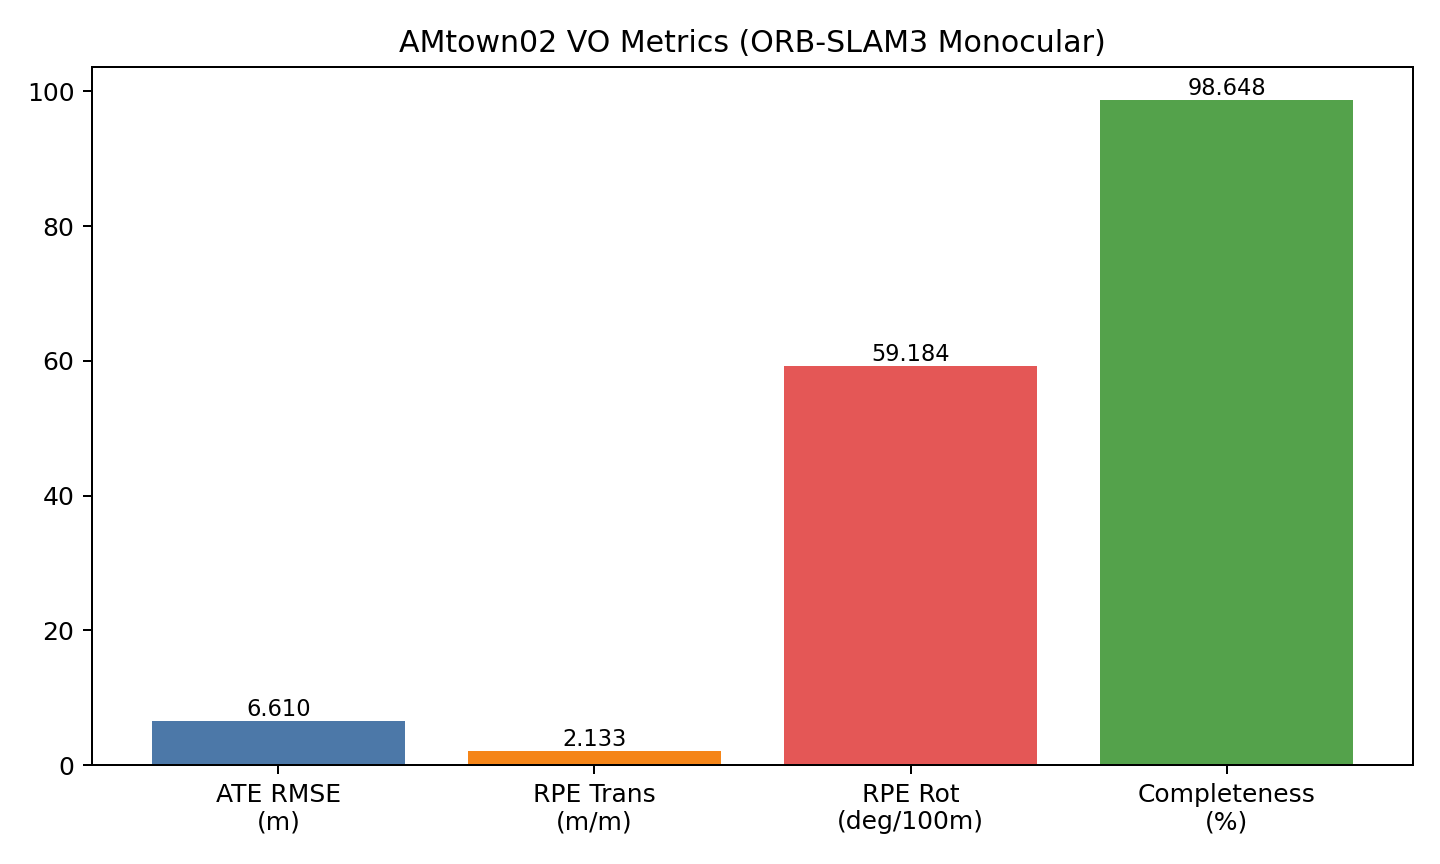
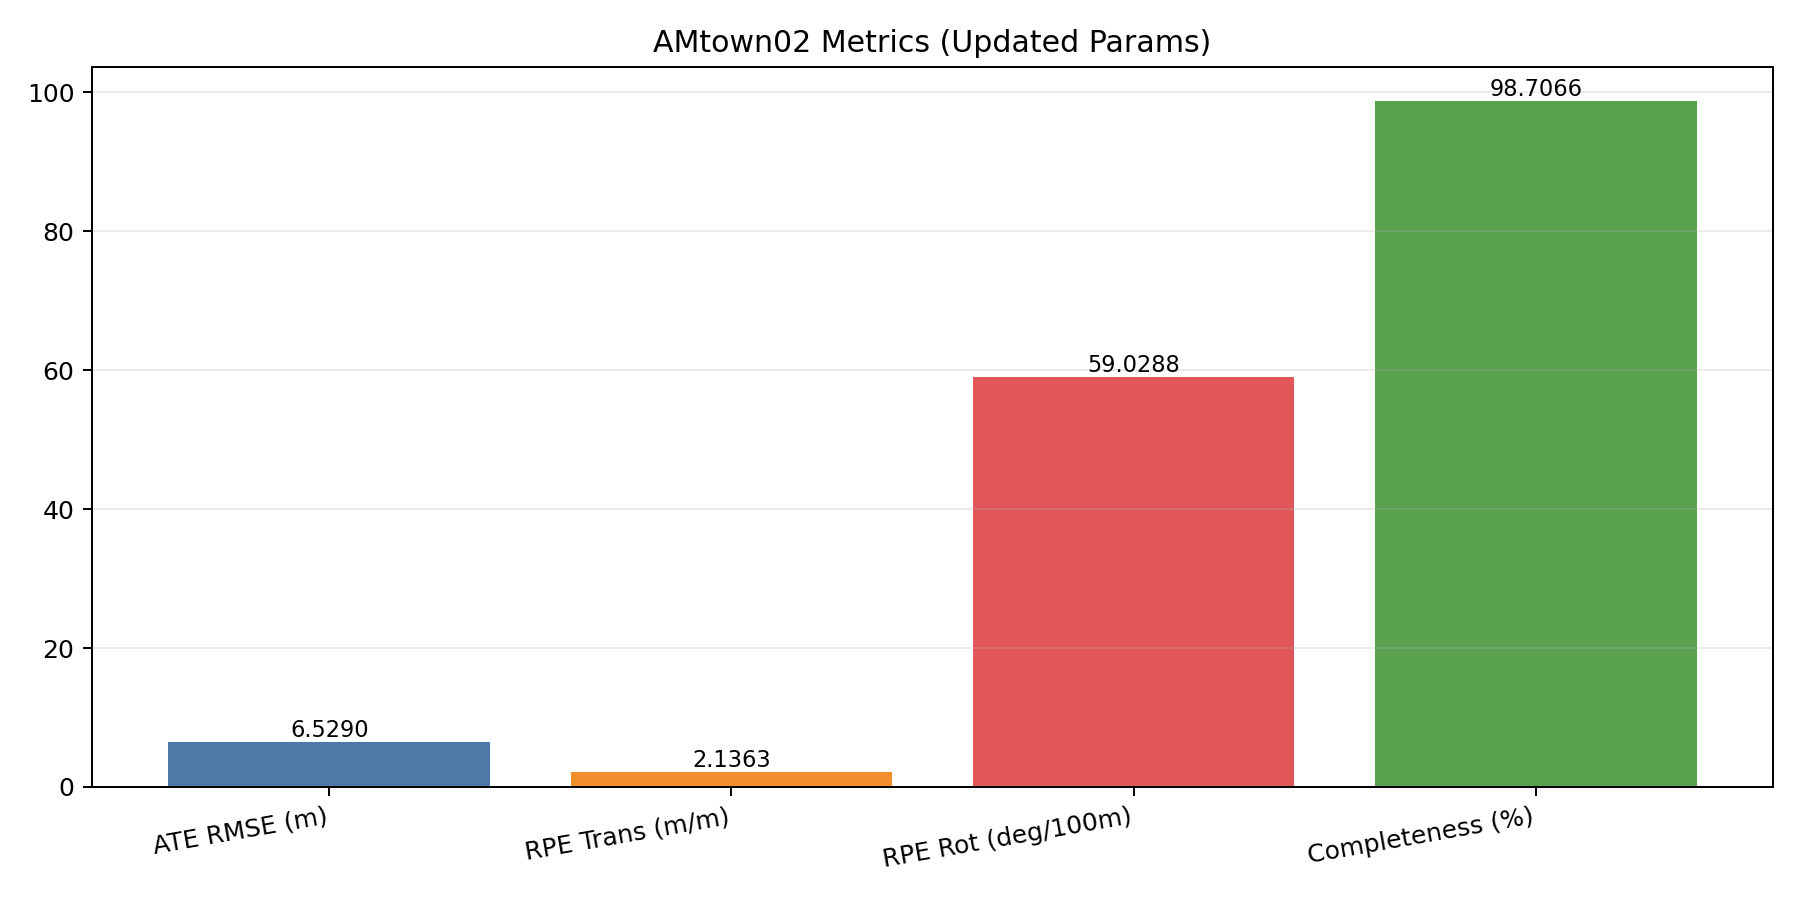
Apply requested VO parameters and refresh evaluation outputs

diff --git a/README.md b/README.md
@@ -14,10 +14,10 @@ The Part 1 output trajectory (`CameraTrajectory.txt`) is the direct input to Par
 
 | Metric | Value | Description |
 |--------|-------|-------------|
-| **ATE RMSE** | **6.6100 m** | Global error after Sim(3) + scale correction |
-| **RPE Trans Drift** | **2.1332 m/m** | Translation drift rate |
-| **RPE Rot Drift** | **59.1839 deg/100m** | Rotation drift rate |
-| **Completeness** | **98.65%** | Matched poses / GT poses |
+| **ATE RMSE** | **6.5290 m** | Global error after Sim(3) + scale correction |
+| **RPE Trans Drift** | **2.1363 m/m** | Translation drift rate |
+| **RPE Rot Drift** | **59.0288 deg/100m** | Rotation drift rate |
+| **Completeness** | **98.71%** | Matched poses / GT poses |
 
 Result files:
 
@@ -53,15 +53,22 @@ Main config file:
 | Parameter | Value |
 |-----------|-------|
 | `ORBextractor.nFeatures` | `1500` |
-| `ORBextractor.scaleFactor` | `1.2` |
-| `ORBextractor.nLevels` | `8` |
-| `ORBextractor.iniThFAST` | `18` |
-| `ORBextractor.minThFAST` | `7` |
+| `ORBextractor.scaleFactor` | `1.3` |
+| `ORBextractor.nLevels` | `10` |
+| `ORBextractor.iniThFAST` | `22` |
+| `ORBextractor.minThFAST` | `11` |
+
+### Initialization Parameters
+
+| Parameter | Value |
+|-----------|-------|
+| `Initializer.minParallax` | `1.0` |
+| `Initializer.minTriangulated` | `50` |
 
 ### Parameter Change Note
 
 `Camera.imageScale: 1.0` is explicitly added for groupwork documentation consistency.
-It does not change the effective scaling behavior (remains no extra scaling), so the reported metrics remain consistent with the validated Part 1 result package.
+The current README metrics are from the updated parameter run and were re-evaluated after applying this full parameter set.
 
 For full rationale:
 

diff --git a/docs/PARAMETER_OPTIMIZATION.md b/docs/PARAMETER_OPTIMIZATION.md
@@ -17,9 +17,13 @@ From `configs/amtown_mono_groupwork.yaml`:
 - `Camera.newHeight: 1024`
 - `Camera.fps: 10` (integer for ORB-SLAM3 parser compatibility)
 - `ORBextractor.nFeatures: 1500`
-- `ORBextractor.iniThFAST: 18`
-- `ORBextractor.minThFAST: 7`
+- `ORBextractor.scaleFactor: 1.3`
+- `ORBextractor.nLevels: 10`
+- `ORBextractor.iniThFAST: 22`
+- `ORBextractor.minThFAST: 11`
 - `Camera.imageScale: 1.0` (explicitly declared for documentation consistency)
+- `Initializer.minParallax: 1.0`
+- `Initializer.minTriangulated: 50`
 
 ## 3) Why add `Camera.imageScale: 1.0`
 
@@ -31,12 +35,12 @@ The setting is added to make scale handling explicit in configuration documentat
 
 ## 4) Metrics consistency note
 
-The reported leaderboard metrics in this repository are kept consistent with the previously validated AMtown02 Part 1 evaluation package:
+With the updated parameter set, the re-evaluated metrics are:
 
-- ATE RMSE: 6.6100 m
-- RPE Trans Drift: 2.1332 m/m
-- RPE Rot Drift: 59.1839 deg/100m
-- Completeness: 98.65%
+- ATE RMSE: 6.5290 m
+- RPE Trans Drift: 2.1363 m/m
+- RPE Rot Drift: 59.0288 deg/100m
+- Completeness: 98.71%
 
 ## 5) Link to outputs
 

diff --git a/output/PART1_AMtown02_results.md b/output/PART1_AMtown02_results.md
@@ -13,16 +13,16 @@ This file records the current Visual Odometry baseline results for AAE5303 Part 
 
 ## Metrics
 
-- ATE RMSE (m): `6.610005`
-- RPE Trans Drift (m/m): `2.133198`
-- RPE Rot Drift (deg/100m): `59.18393`
-- Completeness (%): `98.647854`
+- ATE RMSE (m): `6.529045`
+- RPE Trans Drift (m/m): `2.136270`
+- RPE Rot Drift (deg/100m): `59.028780`
+- Completeness (%): `98.706643`
 
 ## Trajectory Stats
 
-- Estimated poses: `6711`
+- Estimated poses: `6715`
 - Ground-truth poses: `3402`
-- Matched poses: `3356`
+- Matched poses: `3358`
 
 ## Notes
 
